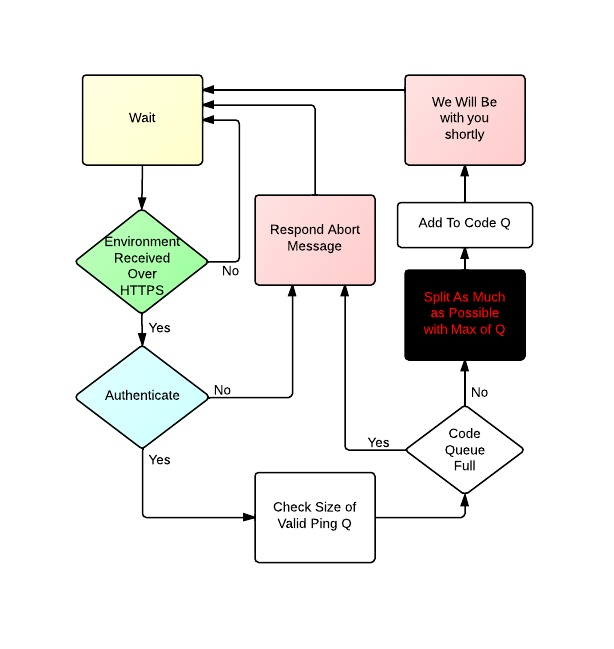
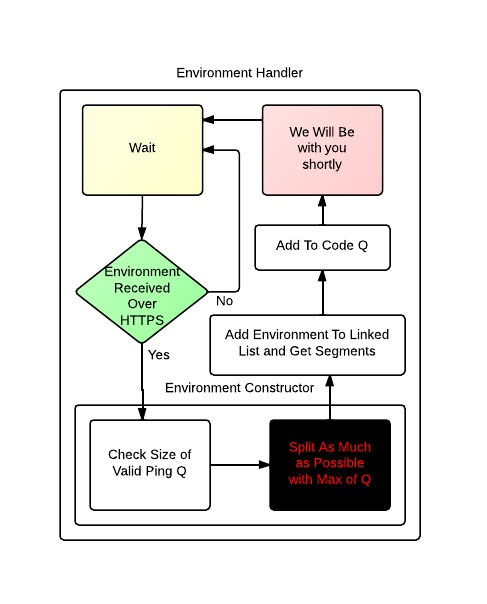
Updated image

Changed region(s): [[0.1232, 0.0894, 0.8932, 0.894]]

diff --git a/ClockworksDSAServer/src/org/clockworks/dsa/server/environment/Environment.java b/ClockworksDSAServer/src/org/clockworks/dsa/server/environment/Environment.java
@@ -1,0 +1,57 @@
+package org.clockworks.dsa.server.environment;
+
+
+import java.io.File;
+import java.util.Arrays;
+import org.clockworks.dsa.server.singletons.PingQueue;
+
+public class Environment {
+	
+	private int id;
+	private EnvironmentSegment[] segments;
+	private File pythonScript;
+	
+	/**
+	 * Constructor that populates ALL member variables including segments.
+	 * @param parameters
+	 * @param pythonScript Must be passed after applying .setReadOnly() on the file object
+	 */
+	public Environment(String[] parameters,File pythonScript){
+		int sizeOfPingQueue = PingQueue.sharedInstance().readSize();
+		// TODO a lot
+	}
+	
+	public int getSegmentCount(){
+		return segments.length;
+	}
+	
+	public EnvironmentSegment[] getSegments(int first, int last){
+		return Arrays.copyOfRange(segments, first, last);
+	}
+	
+	public boolean completeSegmentWithResults(Object results, int id){
+		for(int i= 0; i<segments.length; i++){
+			if(segments[i].getId()==id){
+				return segments[i].insertResults(results);
+			}
+		}
+		return false;
+	}
+	
+	private boolean isComplete(){
+		for(EnvironmentSegment segment : segments){
+			if(!segment.isComplete()){
+				return false;
+			}
+		}
+		return true;
+	}
+	
+	public Object returnAssembledResult(){
+		if(!isComplete()){
+			return null;
+		}
+		//TODO: everything
+		return null;
+	}
+}

diff --git a/ClockworksDSAServer/src/org/clockworks/dsa/server/singletons/CodeQueue.java b/ClockworksDSAServer/src/org/clockworks/dsa/server/singletons/CodeQueue.java
@@ -2,16 +2,20 @@ package org.clockworks.dsa.server.singletons;
 
 import java.util.concurrent.ConcurrentLinkedQueue;
 
+import org.clockworks.dsa.server.environment.EnvironmentSegment;
+
 /**
  *	Class wrapping a static singleton code queue object
+ *	Classes accessing:
+ *	- Environment
  */
 class CodeQueue{
 	
-	private ConcurrentLinkedQueue<CodeBlock> queue;
+	private ConcurrentLinkedQueue<EnvironmentSegment> queue;
 	private static CodeQueue singleton;
 
 	/**
-	 *	Static constructor
+	 *	Singleton accessor
 	 */
 	public static CodeQueue sharedInstance(){
 		if(singleton == null){
@@ -24,21 +28,21 @@ class CodeQueue{
 	 *	Private constructor
 	 */
 	private CodeQueue(){
-		queue = new ConcurrentLinkedQueue<CodeBlock>();
+		queue = new ConcurrentLinkedQueue<EnvironmentSegment>();
 	}
 
 	/**
 	 *	Enqueue a block of code
 	 */
-	public void addToQueue(CodeBlock codeblock){
+	public void addToQueue(EnvironmentSegment codeblock){
 		queue.add(codeblock);
 	}
 
 	/**
 	 * Dequeue a block of code
 	 */
-	public CodeBlock popFromQueue(){
-		return queue.pull();
+	public EnvironmentSegment popFromQueue(){
+		return queue.poll();
 	} 
 
 }

diff --git a/ClockworksDSAServer/src/org/clockworks/dsa/server/environment/EnvironmentSegment.java b/ClockworksDSAServer/src/org/clockworks/dsa/server/environment/EnvironmentSegment.java
@@ -1,0 +1,45 @@
+package org.clockworks.dsa.server.environment;
+
+import java.io.File;
+
+public class EnvironmentSegment {
+	
+	private String[] parameters;
+	private File pythonScript;
+	private int parentId;
+	private int id;
+	private Object results;
+	
+	public EnvironmentSegment(int parentId, int id, String[] parameters, File pythonScript) {
+		this.parentId = parentId;
+		this.id = id;
+		this.parameters = parameters;
+		this.pythonScript = pythonScript;
+	}
+	
+	public Object getUnifiedFile(){
+		return null;
+	}
+	
+	public boolean insertResults(Object results){
+		if(this.results!=null){
+			return false;
+		}else{
+			this.results = results;
+			return true;
+		}
+	}
+	
+	public boolean isComplete(){
+		return this.results!=null;
+	}
+	
+	public Object getResults(){
+		return this.results;
+	}
+	
+	public int getId(){
+		return this.id;
+	}
+
+}

diff --git a/ClockworksDSAServer/src/org/clockworks/dsa/server/singletons/PingQueue.java b/ClockworksDSAServer/src/org/clockworks/dsa/server/singletons/PingQueue.java
@@ -1,8 +1,13 @@
 package org.clockworks.dsa.server.singletons;
 
 import java.util.concurrent.ConcurrentLinkedQueue;
-
-class PingQueue{
+import org.clockworks.dsa.server.pings.RTPPing;
+/**
+ * List of classes accessing this singleton (KEEP UP TO DATE!!!)
+ * - Environment
+ *
+ */
+public class PingQueue{
 	
 	private static final int DEFAULT_VALID_DURATION = 30000;
 	private int validDuration;
@@ -41,7 +46,9 @@ class PingQueue{
 	 * 	@return remaining size of queue
 	 */
 	public int readSize(){
-		// TODO: pop the things
+		while(queue.peek().getAgeInMillis()>validDuration){
+			queue.poll();
+		}
 		return queue.size();
 	}
 

diff --git a/ClockworksDSAServer/src/org/clockworks/dsa/server/pings/RTPPing.java b/ClockworksDSAServer/src/org/clockworks/dsa/server/pings/RTPPing.java
@@ -1,0 +1,18 @@
+package org.clockworks.dsa.server.pings;
+
+import com.sun.net.httpserver.HttpExchange;
+
+public class RTPPing {
+	
+	private long timestamp;
+	private HttpExchange ping;
+	
+	public RTPPing(HttpExchange ping) {
+		timestamp = System.currentTimeMillis();
+		this.ping = ping;
+	}
+
+	public long getAgeInMillis(){
+		return System.currentTimeMillis()-timestamp;
+	}
+}
